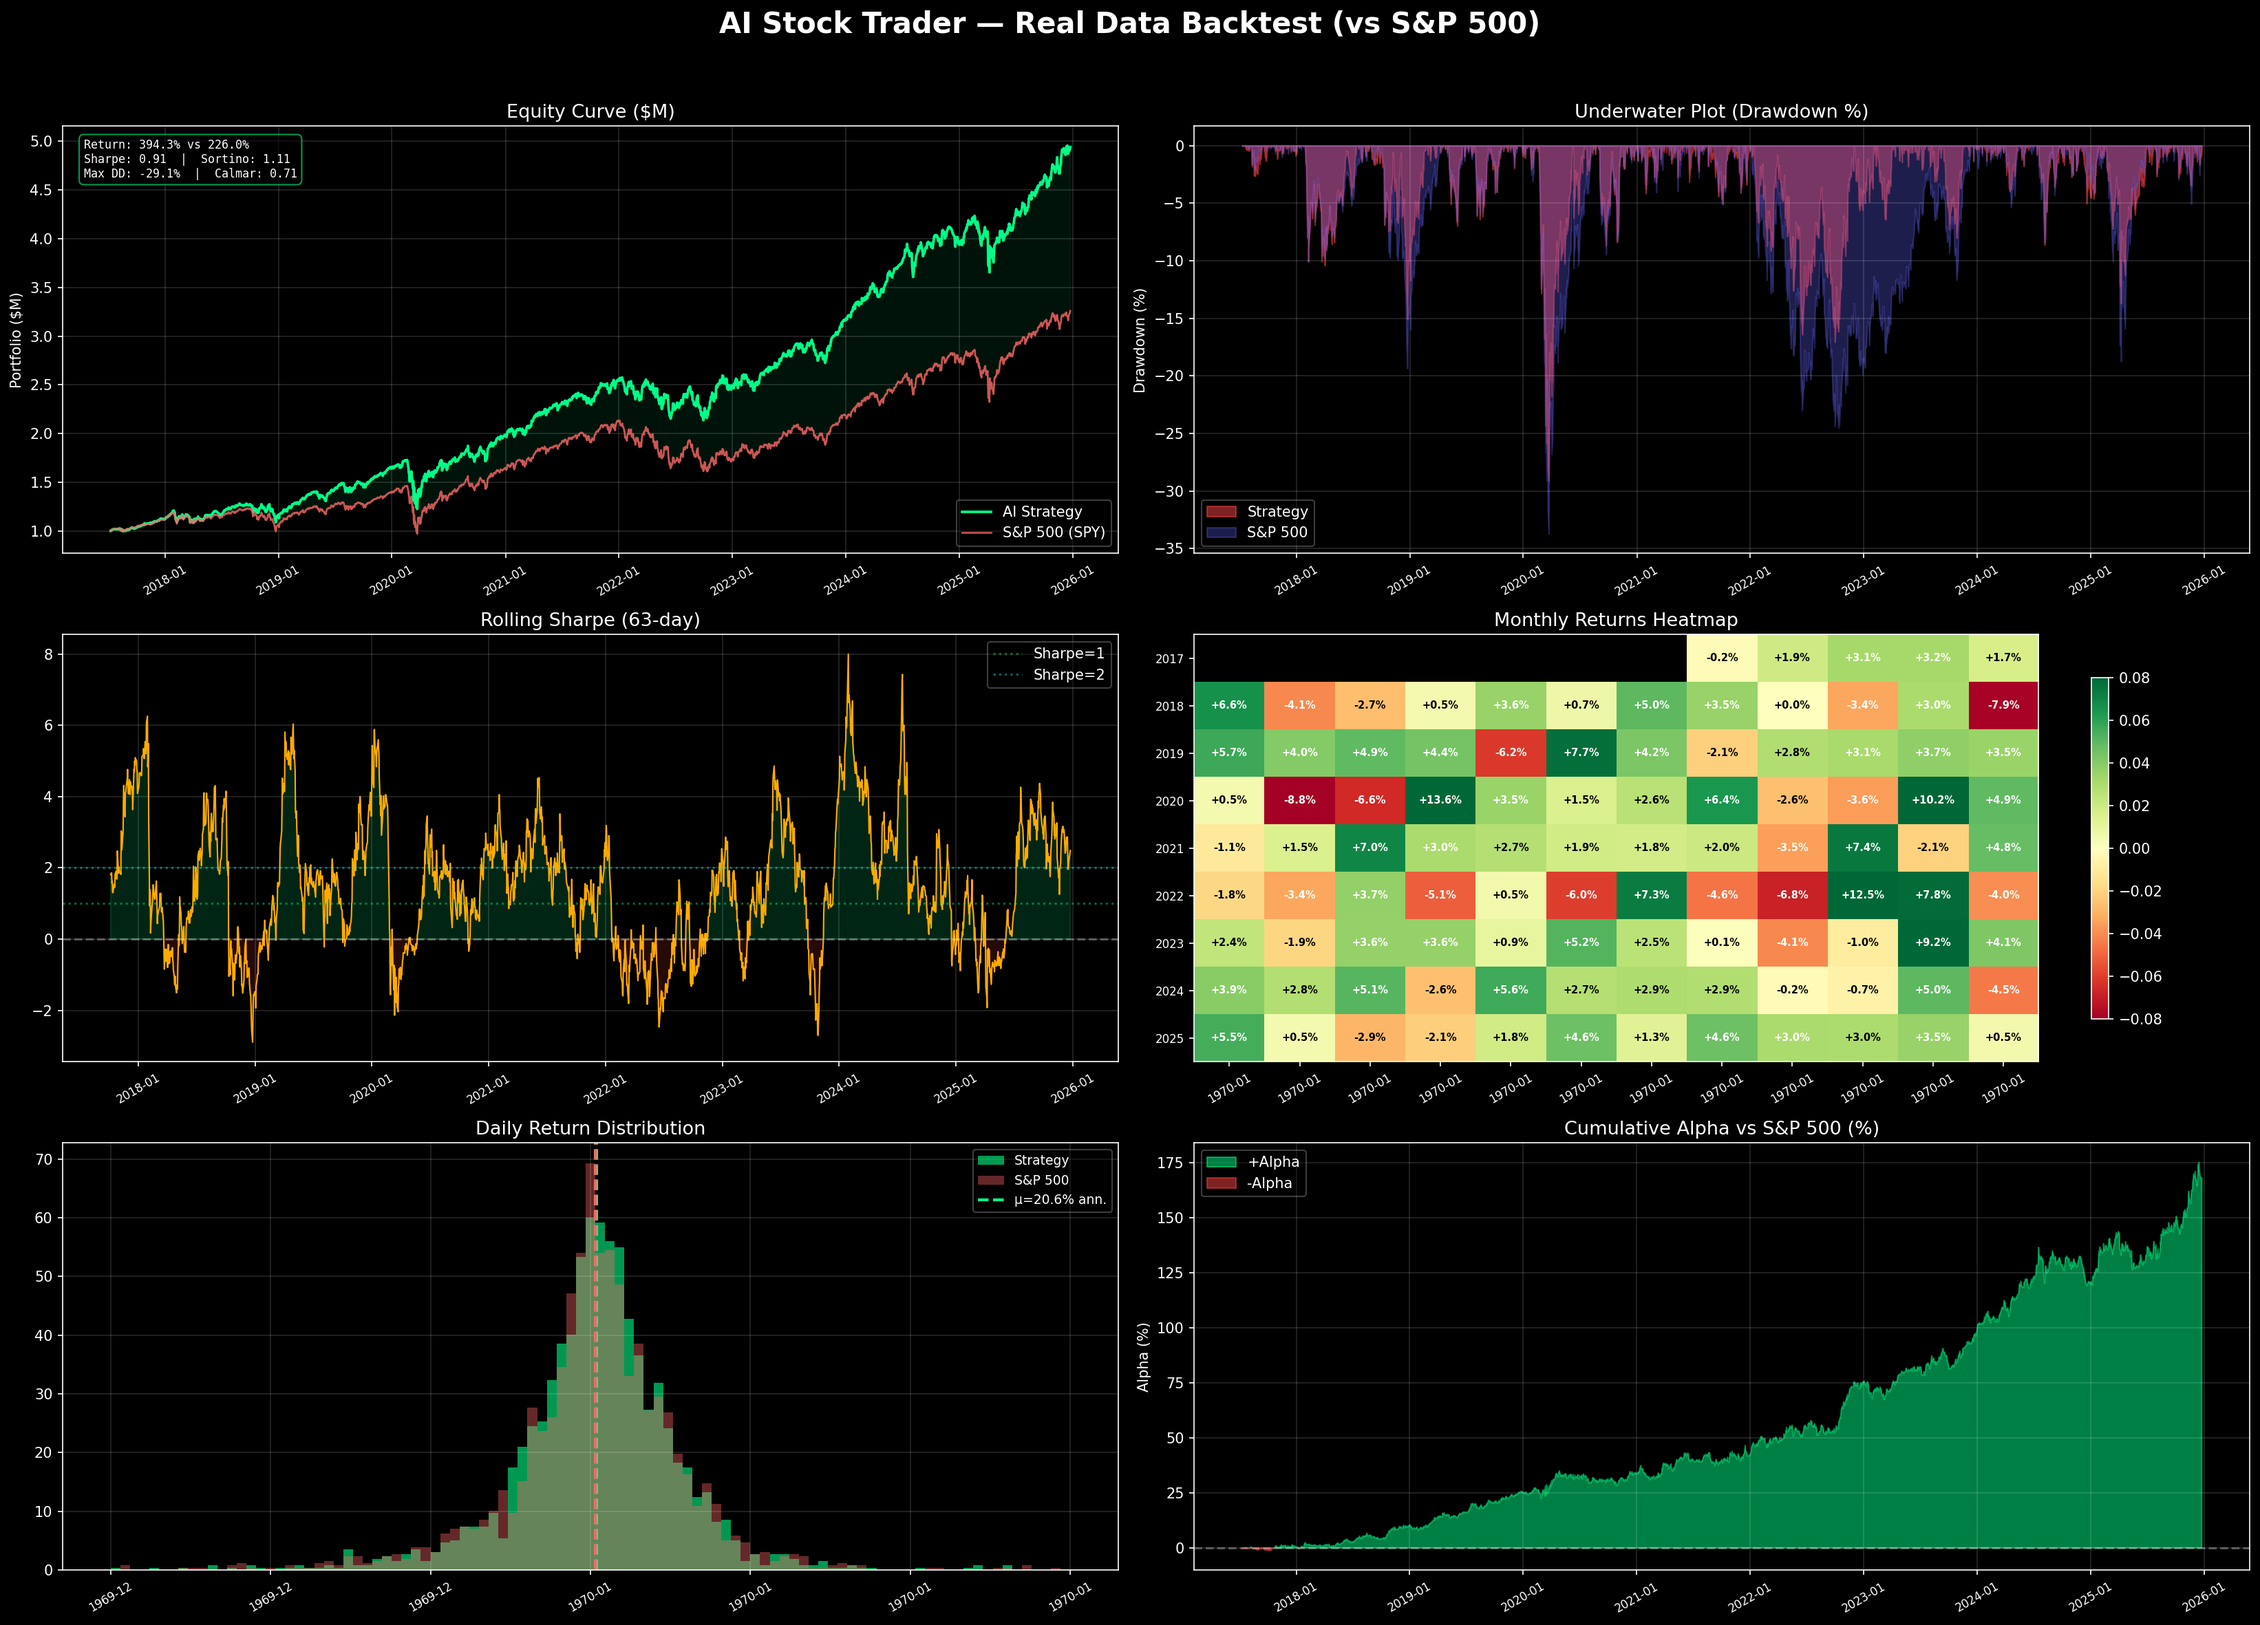
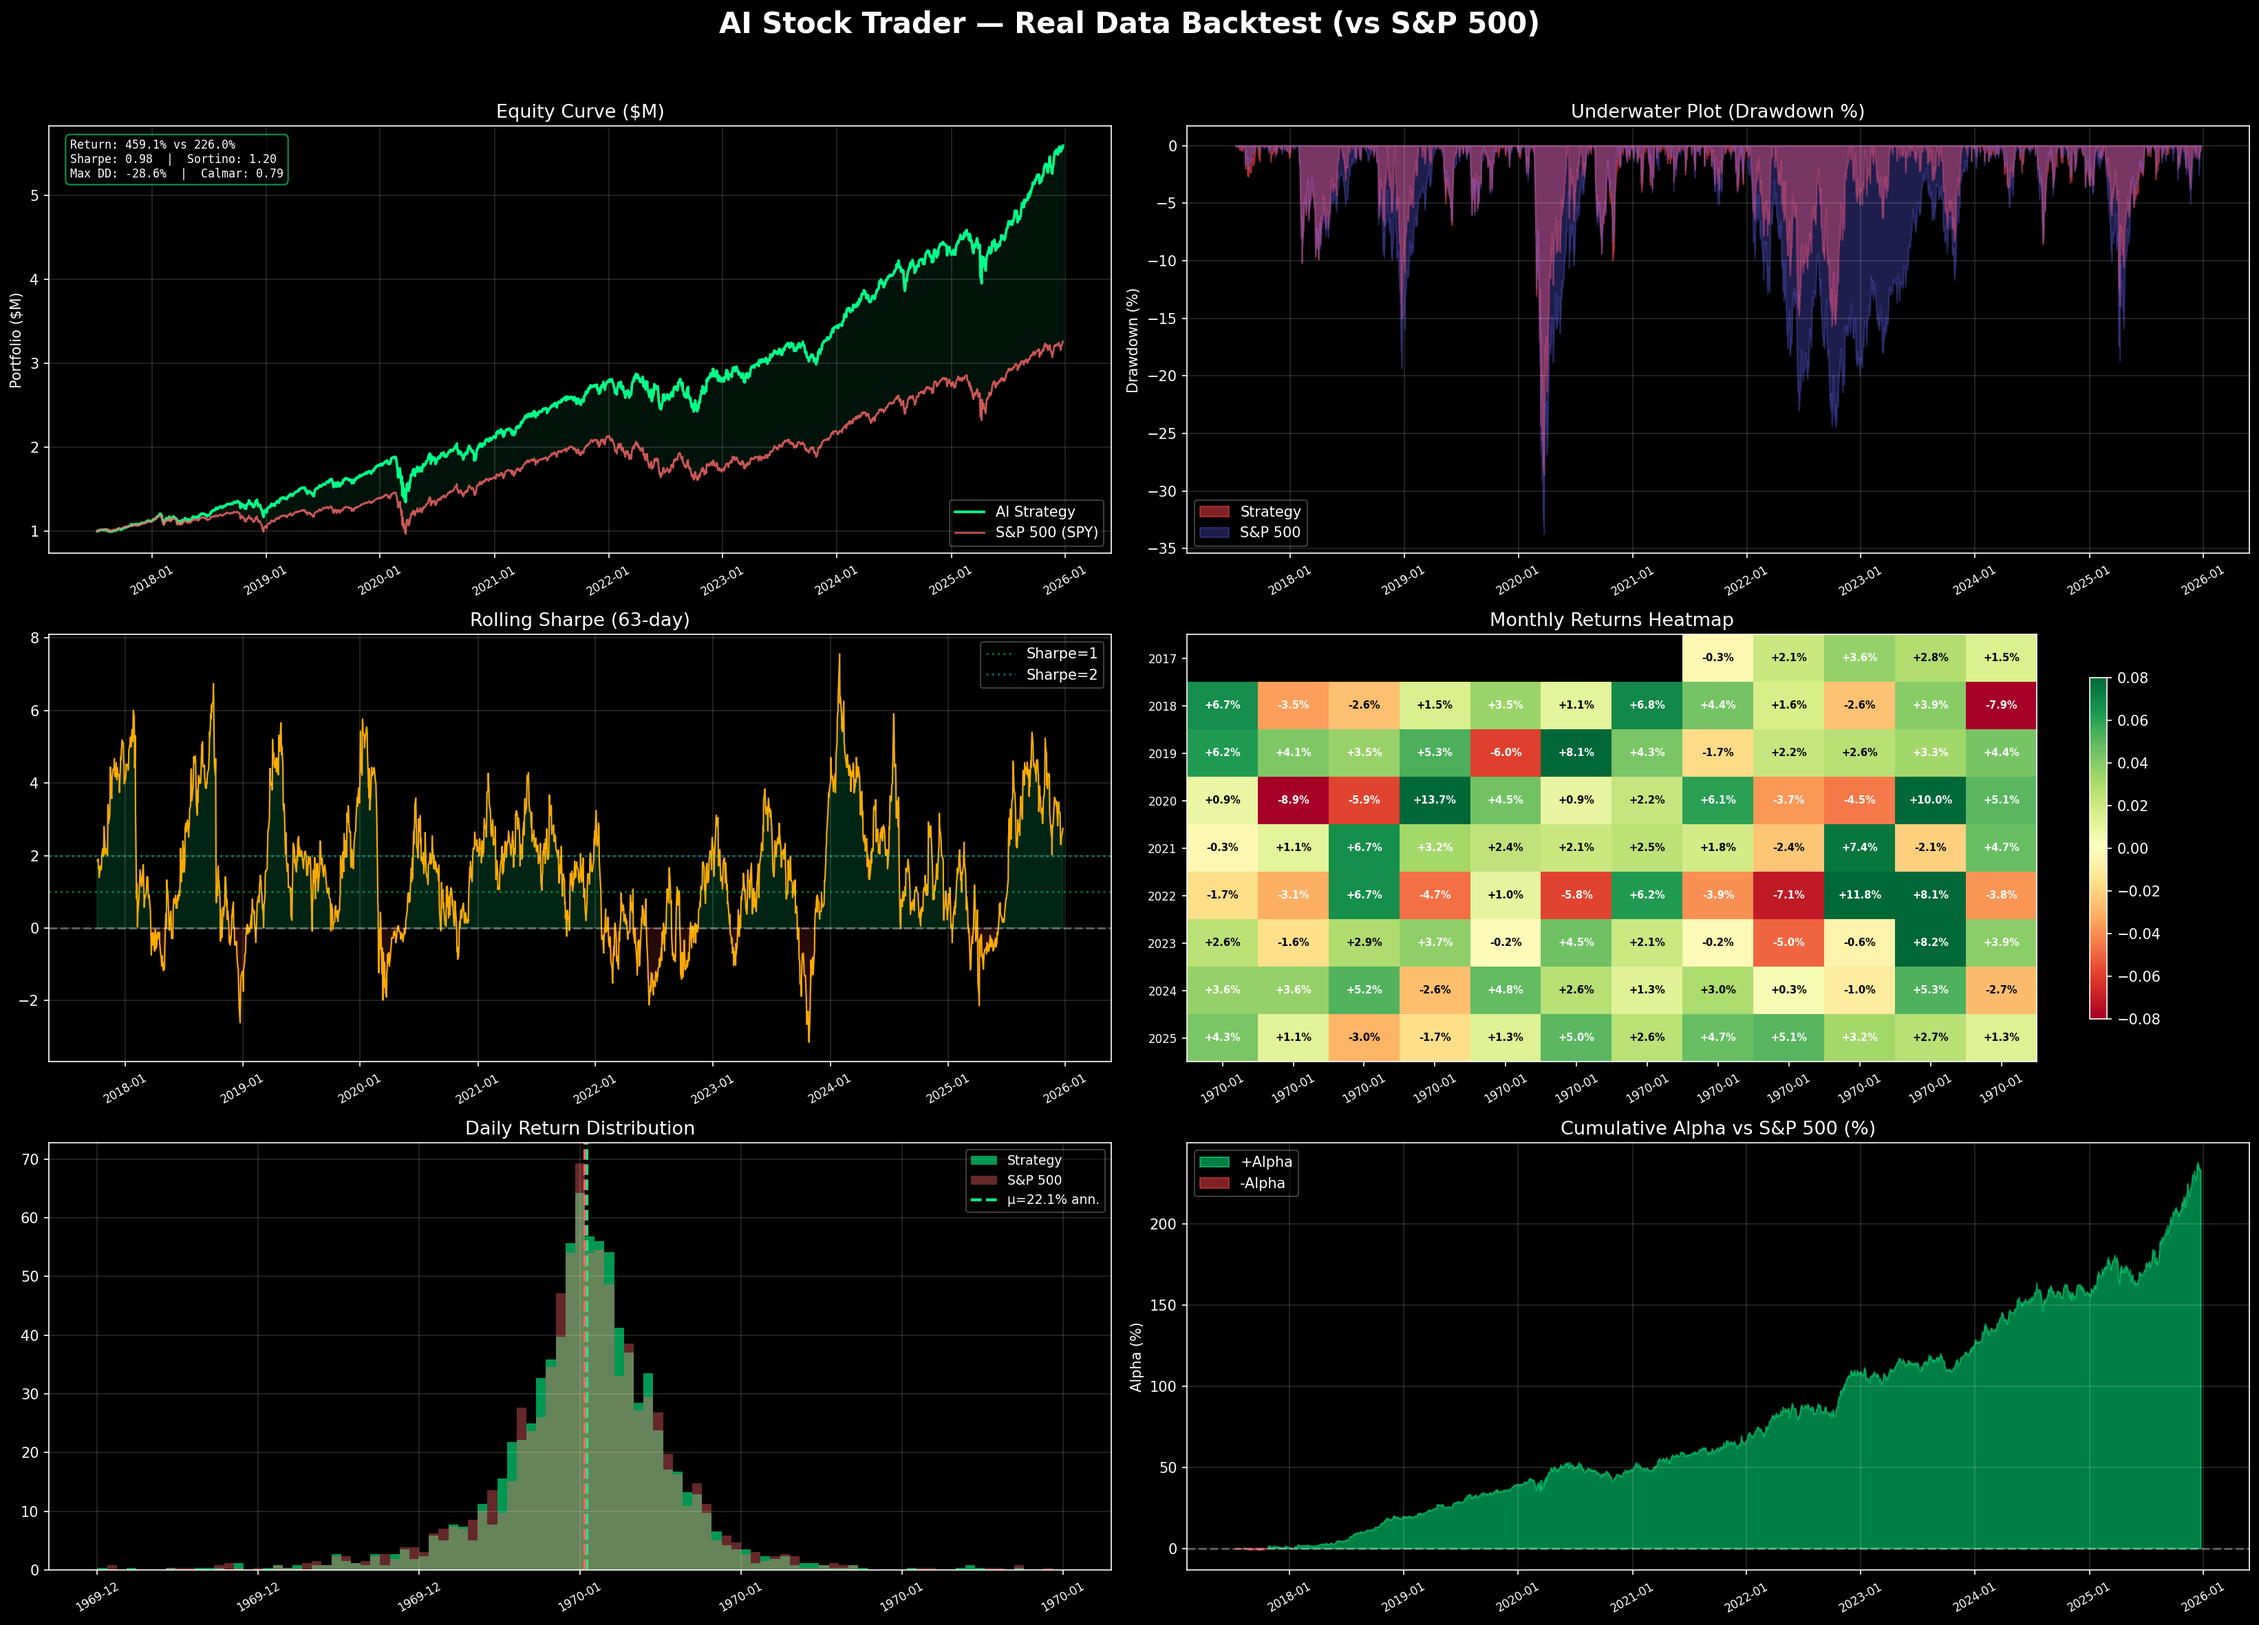
more optimizations

diff --git a/config.py b/config.py
@@ -21,10 +21,11 @@ CHART_PATH  = OUTPUT_DIR / "trading_charts.png"
 
 # ── Universe ───────────────────────────────────────────────────────────────────
 UNIVERSE = [
-    "AAPL", "MSFT", "GOOGL", "AMZN", "NVDA",
-    "IBM",  "INTC", "JPM",  "BAC",  "JNJ",
-    "UNH",  "XOM",  "PG",   "HD",   "GS",
-    "LLY",  "KO",   "MRK",  "WMT",  "PEP",
+    "AAPL", "MSFT", "AMZN", "NVDA",
+    "IBM", "INTC", "JPM", "BAC", "JNJ",
+    "UNH", "XOM", "PG", "HD", "GS",
+    "LLY", "KO", "MRK", "WMT", "PEP",
+    "AXP"
 ]
 
 BENCHMARK = "SPY"
@@ -32,7 +33,7 @@ BENCHMARK = "SPY"
 # Simulation dates — 2004-01-01 start gives feature indicators enough
 # warmup history before the 2005+ effective trading period.
 # All universe tickers were publicly listed before 2005.
-START_DATE = "2004-01-01"
+START_DATE = "1999-10-01"
 END_DATE   = "2025-12-31"
 
 # Train / test split (most-recent N% used for out-of-sample test)

diff --git a/main.py b/main.py
@@ -164,7 +164,7 @@ def main():
 
     print_metric("Total samples", f"{X_all.shape[0]:,}")
     print_metric("Input dimension", f"{input_dim} (window={cfg.LOOKBACK_WINDOW} × features={n_feat})")
-    print_metric("Target", "Forward 5-day raw price return")
+    print_metric("Target", f"Forward {cfg.FORWARD_DAYS}-day raw price return")
 
     # Split by DATE (temporal — no future leakage)
     # Safety buffer: each training target uses cfg.FORWARD_DAYS of future prices.
